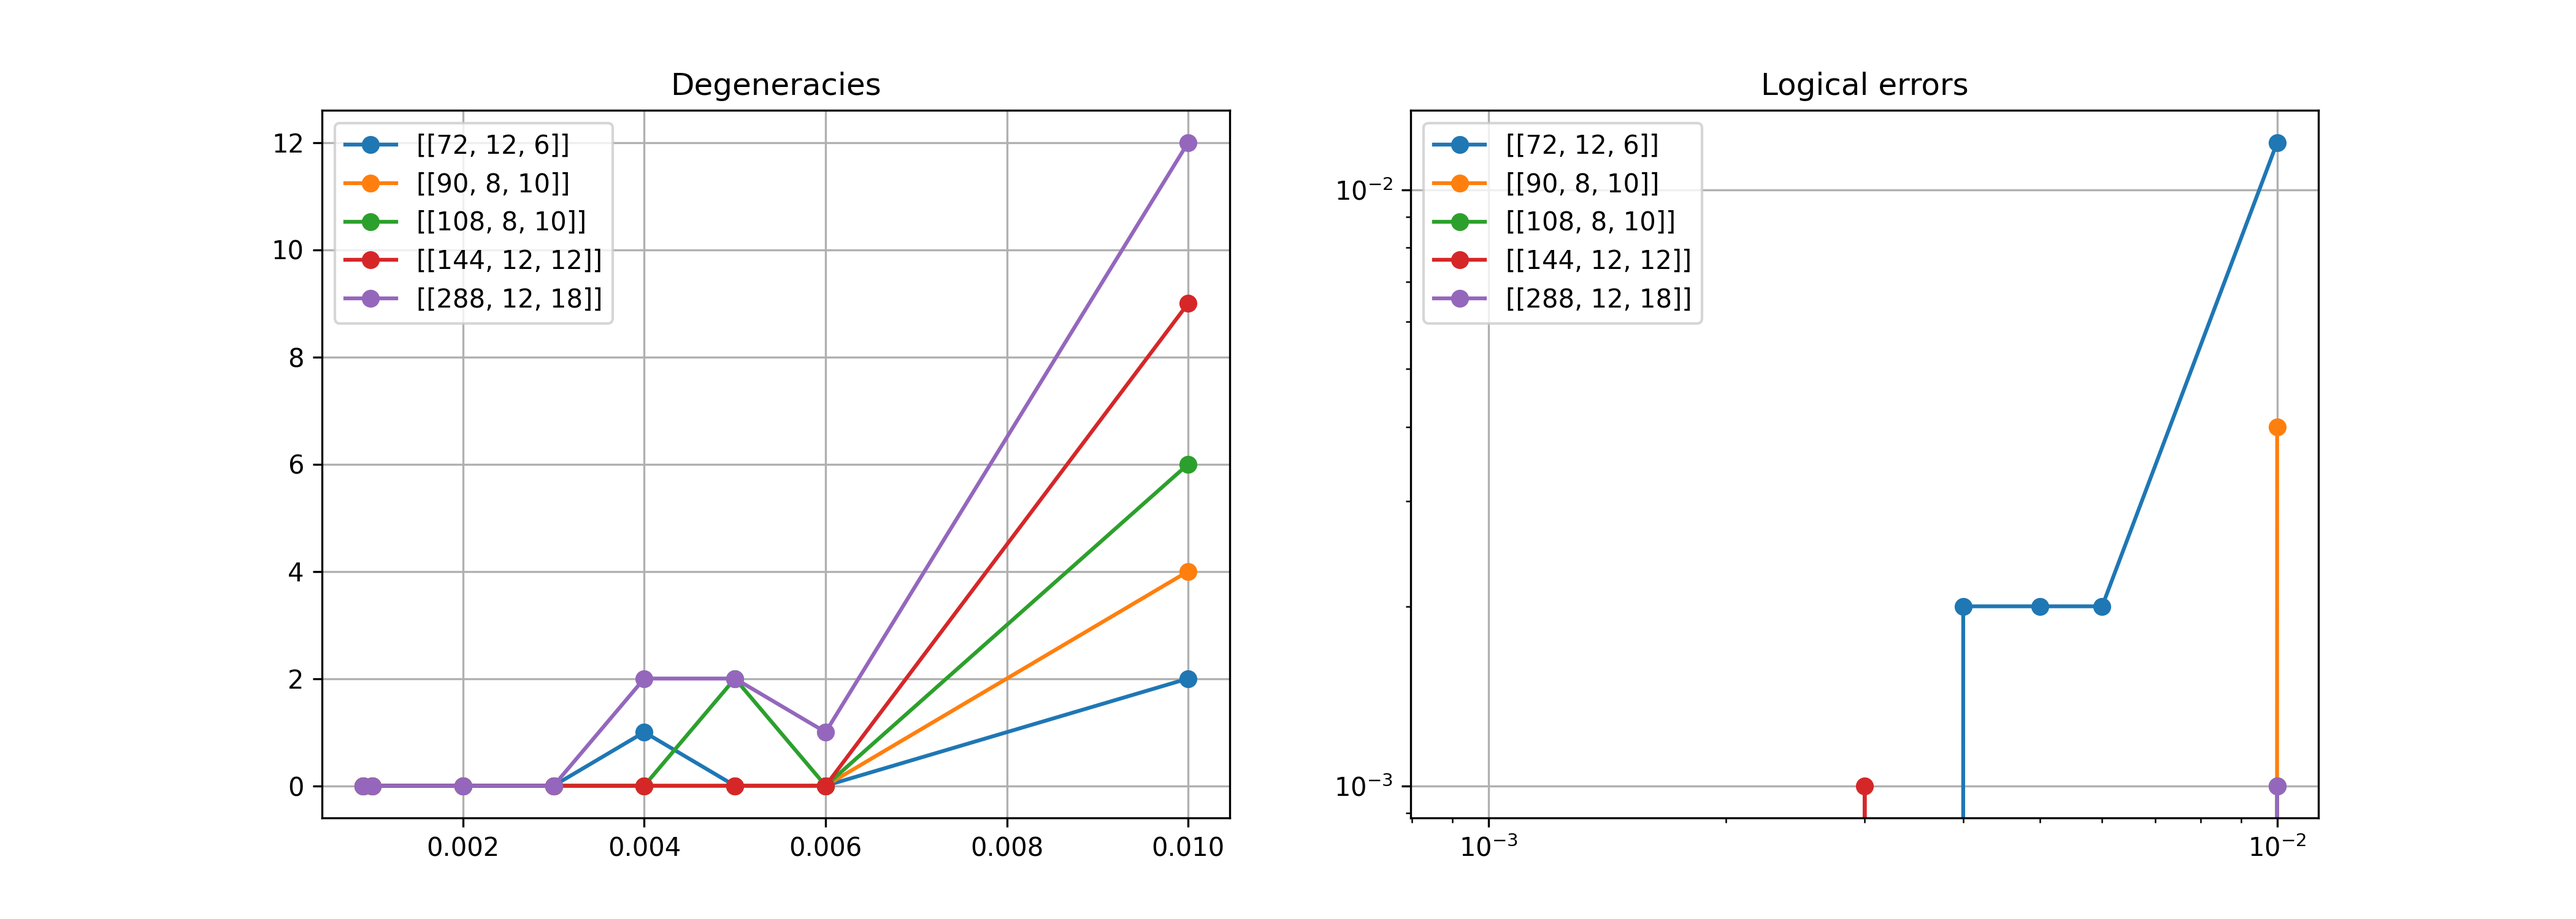
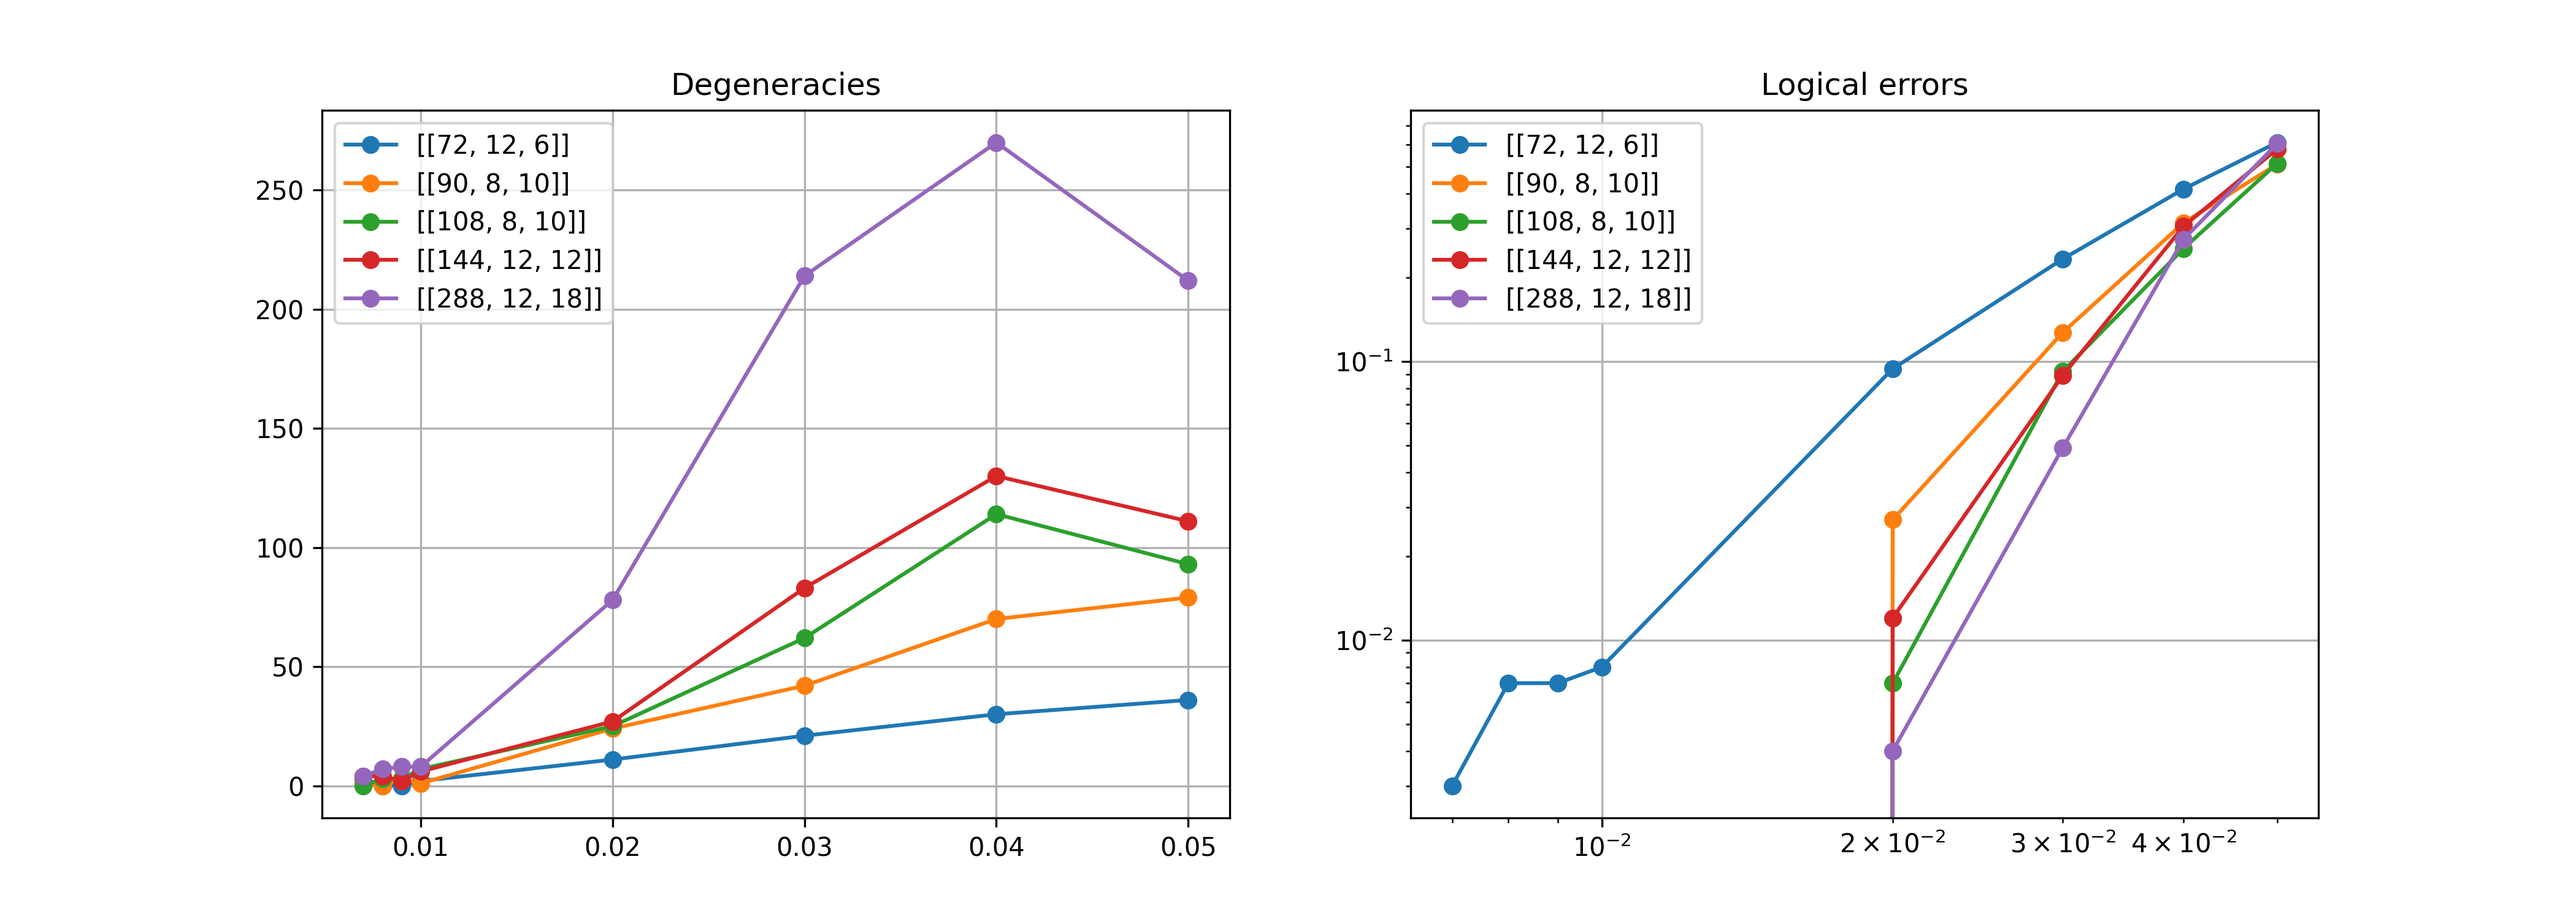
updates

diff --git a/paperResults.py b/paperResults.py
@@ -19,6 +19,7 @@ np.random.seed(0)
 trials = 1000
 # physicalErrorRates = np.logspace(-3.2, -1.3, 8)
 physicalErrorRates = [0.01, 0.006, 0.005, 0.004, 0.003, 0.002, 0.001, 0.0009]
+physicalErrorRates = [0.05, 0.04, 0.03, 0.02, 0.01, 0.009, 0.008, 0.007]
 results_OSD = {}
 
 names = codes  # preserve the original order used to build `results`
@@ -67,7 +68,7 @@ for code in tqdm.tqdm(codes):
             # measurementError = (np.random.random(len(syndrome)) < errorRate).astype(int)
             # syndrome = (syndrome + measurementError) % 2
             
-            detection, isSyndromeFound, llrs = performBeliefPropagationFast(code, syndrome, initialBeliefs, verbose=False, maxIter=75)
+            detection, isSyndromeFound, llrs = performBeliefPropagationFast(code, syndrome, initialBeliefs, verbose=False, maxIter=200)
             
             if not isSyndromeFound:
                 # logical_error += 1

diff --git a/paperResults_GPU.py b/paperResults_GPU.py
@@ -33,7 +33,7 @@ codes = [
 np.random.seed(0)
 rng = np.random.default_rng(0)
 
-trials = 100000
+trials = 10000
 physicalErrorRates = [0.1, 0.06, 0.05, 0.04, 0.03, 0.02, 0.01, 0.009]
 physicalErrorRates = [0.05, 0.01, 0.009, 0.008, 0.007, 0.006, 0.005, 0.001]
 physicalErrorRates = [0.05, 0.04, 0.03, 0.02, 0.01, 0.009, 0.008, 0.007]
@@ -106,7 +106,7 @@ for code_name in tqdm.tqdm(codes, desc="Processing codes"):
             
             # Run batched BP
             detections, converged, llrs_batch = performBeliefPropagationBatch(
-                code, syndromes, initialBeliefs, maxIter=9999
+                code, syndromes, initialBeliefs, maxIter=150
             )
             
             # Process results for this batch
